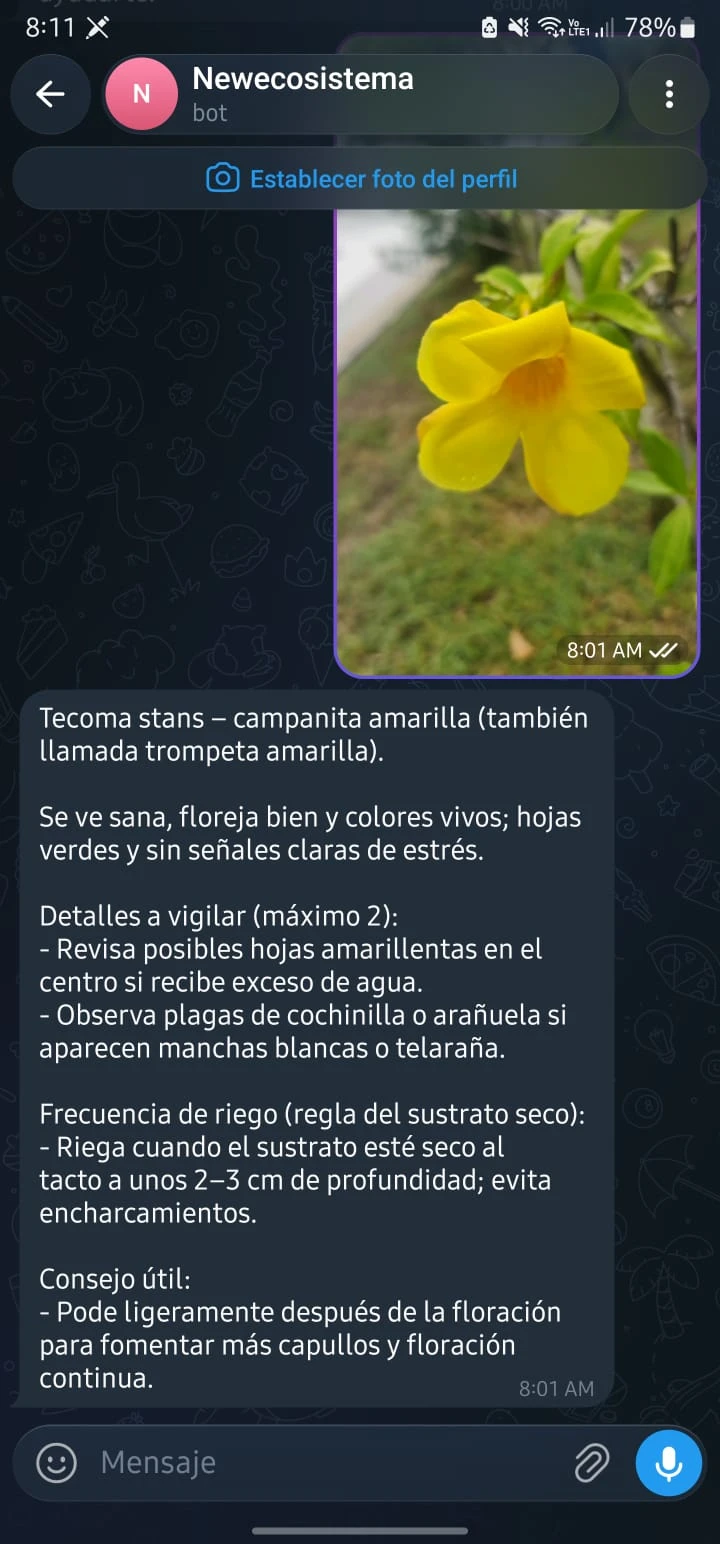
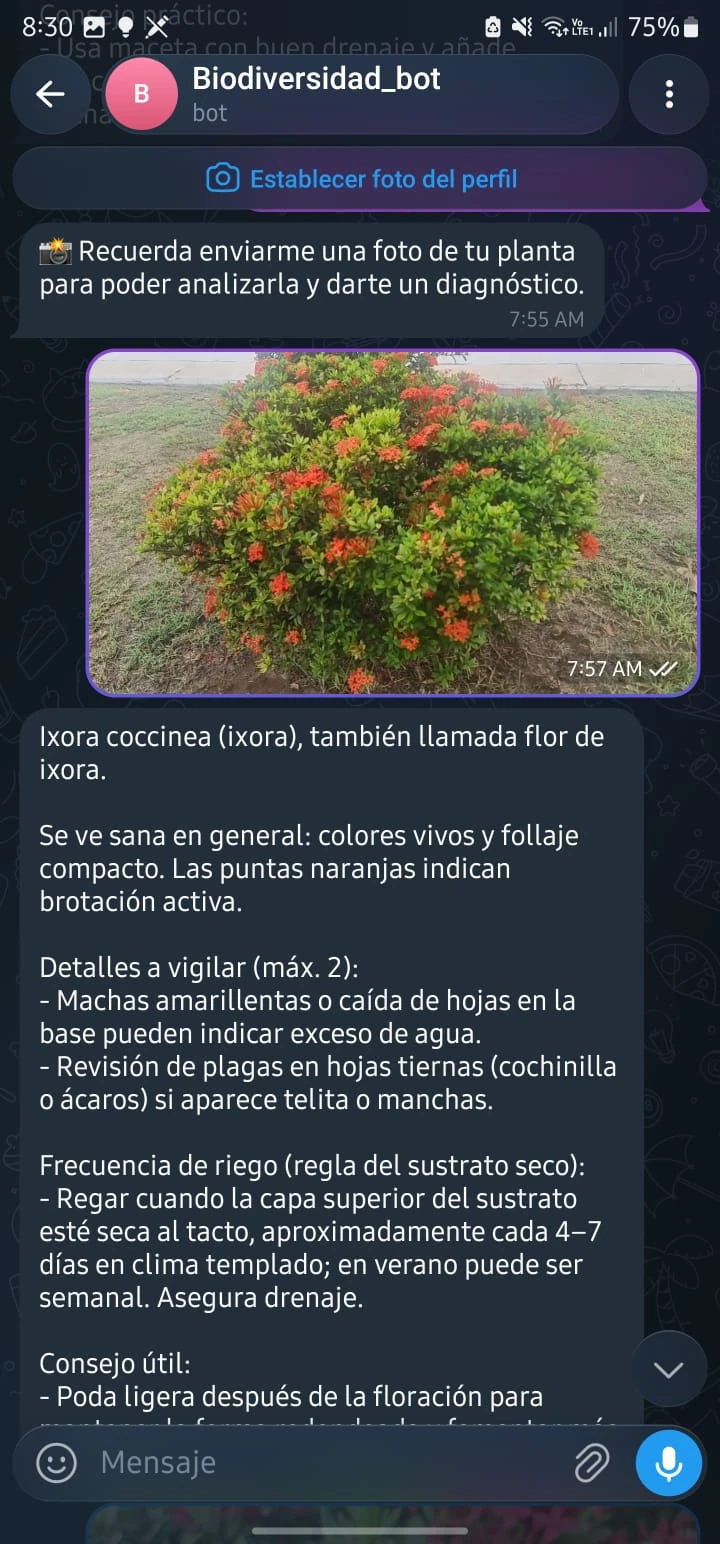
Update conversation screenshots and bot name (renamed to Biodiversidad_bot)

diff --git a/README.md b/README.md
@@ -6,7 +6,7 @@
 ## 1. Descripción
 
 Automatización construida en Make.com que permite tomar una foto de una
-planta y enviarla a un bot de Telegram (`@Newecosistema`) para recibir, en
+planta y enviarla a un bot de Telegram (`@Biodiversidad_bot`) para recibir, en
 segundos, un diagnóstico completo: nombre común y científico, si se ve
 sana, detalles a vigilar, frecuencia de riego y un tip de cuidado.
 
